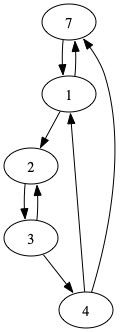
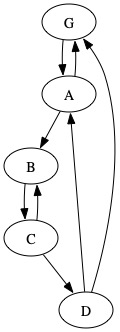
fix: Vertices as string not int

diff --git a/zestaw5/ZadanieB/graph.h b/zestaw5/ZadanieB/graph.h
@@ -12,22 +12,22 @@ class graph
 private:
     int **adjacencyMatrix;
     int numberOfVertices;
-    std::unordered_map<int, int> verticesValues;
+    std::unordered_map<std::string, int> verticesValues;
     int numberOfEdges;
 
 public:
     graph(int vertices);
-    ~graph() = default;
-    bool adjacent(int vertex1, int vertex2);
-    std::vector<int> neighbors(int vertex);
-    void addVertex(int vertex);
-    void removeVertex(int vertex);
-    void addEdge(int vertex1, int vertex2);
-    void removeEdge(int vertex1, int vertex2);
-    int getVertexValue(int vertex);
-    void setVertexValue(int vertex, int value);
-    int getEdgeValue(int vertex1, int vertex2);
-    void setEdgeValue(int vertex1, int vertex2, int value);
+    ~graph(); // Changed to custom destructor
+    bool adjacent(const std::string &vertex1, const std::string &vertex2);
+    std::vector<std::string> neighbors(const std::string &vertex);
+    void addVertex(const std::string &vertex);
+    void removeVertex(const std::string &vertex);
+    void addEdge(const std::string &vertex1, const std::string &vertex2);
+    void removeEdge(const std::string &vertex1, const std::string &vertex2);
+    int getVertexValue(const std::string &vertex);
+    void setVertexValue(const std::string &vertex, int value);
+    int getEdgeValue(const std::string &vertex1, const std::string &vertex2);
+    void setEdgeValue(const std::string &vertex1, const std::string &vertex2, int value);
     void display();
     void generateDotFile(const std::string &filename);
 };
@@ -47,43 +47,46 @@ graph::graph(int vertices)
         {
             adjacencyMatrix[i][j] = 0;
         }
-        verticesValues.insert({i, i});
+
+        // Generate a letter A, B, C, etc. for initial vertices
+        char letter = 'A' + i;
+        std::string vertexName(1, letter);
+        verticesValues.insert({vertexName, i});
     }
 }
 
-bool graph::adjacent(int vertex1, int vertex2)
+bool graph::adjacent(const std::string &vertex1, const std::string &vertex2)
 {
-    if (vertex1 >= 0 && vertex2 >= 0)
+    if (verticesValues.contains(vertex1) && verticesValues.contains(vertex2))
     {
         return adjacencyMatrix[verticesValues.at(vertex1)][verticesValues.at(vertex2)] != 0;
     }
     return false;
 }
 
-std::vector<int> graph::neighbors(int vertex)
+std::vector<std::string> graph::neighbors(const std::string &vertex)
 {
-    if (vertex < 0 || !verticesValues.contains(vertex))
+    if (!verticesValues.contains(vertex))
     {
         std::cout << "Vertex does not exist." << std::endl;
         return {};
     }
 
     int index = verticesValues.at(vertex);
-    std::vector<int> neighbors;
+    std::vector<std::string> neighbors;
 
     for (int i = 0; i < numberOfVertices; i++)
     {
         if (adjacencyMatrix[index][i] != 0)
         {
-            std::unordered_map<int, int>::iterator it = verticesValues.begin();
-            while (it != verticesValues.end())
+            // Find which vertex name corresponds to matrix index i
+            for (const auto &[vtxName, idx] : verticesValues)
             {
-                if (it->second == i)
+                if (idx == i)
                 {
-                    neighbors.push_back(it->first);
+                    neighbors.push_back(vtxName);
                     break;
                 }
-                it++;
             }
         }
     }
@@ -97,7 +100,7 @@ std::vector<int> graph::neighbors(int vertex)
     return neighbors;
 }
 
-void graph::addVertex(int vertex)
+void graph::addVertex(const std::string &vertex)
 {
     if (verticesValues.contains(vertex))
     {
@@ -136,7 +139,7 @@ void graph::addVertex(int vertex)
     verticesValues.insert({vertex, newSize - 1});
 }
 
-void graph::removeVertex(int vertex)
+void graph::removeVertex(const std::string &vertex)
 {
     if (!verticesValues.contains(vertex))
     {
@@ -172,41 +175,66 @@ void graph::removeVertex(int vertex)
             }
         }
     }
+
+    // Free old matrix memory
+    for (int i = 0; i < numberOfVertices; i++)
+    {
+        delete[] adjacencyMatrix[i];
+    }
+    delete[] adjacencyMatrix;
+
     adjacencyMatrix = newAdjecencyMatrix;
     numberOfVertices = newSize;
     verticesValues.erase(vertex);
+
+    // Update indices of remaining vertices
+    for (auto &[vtx, idx] : verticesValues)
+    {
+        if (idx > index)
+        {
+            idx--;
+        }
+    }
 }
 
-void graph::addEdge(int vertex1, int vertex2)
+void graph::addEdge(const std::string &vertex1, const std::string &vertex2)
 {
-    if (vertex1 >= 0 && vertex2 >= 0)
+    if (verticesValues.contains(vertex1) && verticesValues.contains(vertex2))
     {
         adjacencyMatrix[verticesValues.at(vertex1)][verticesValues.at(vertex2)] = 1;
         numberOfEdges++;
     }
+    else
+    {
+        std::cout << "One or both vertices do not exist." << std::endl;
+    }
 }
 
-void graph::removeEdge(int vertex1, int vertex2)
+void graph::removeEdge(const std::string &vertex1, const std::string &vertex2)
 {
-    if (vertex1 >= 0 && vertex2 >= 0 && vertex1 < numberOfVertices && vertex2 < numberOfVertices)
+    if (verticesValues.contains(vertex1) && verticesValues.contains(vertex2))
     {
         adjacencyMatrix[verticesValues.at(vertex1)][verticesValues.at(vertex2)] = 0;
         numberOfEdges--;
     }
+    else
+    {
+        std::cout << "One or both vertices do not exist." << std::endl;
+    }
 }
 
-int graph::getVertexValue(int vertex)
+int graph::getVertexValue(const std::string &vertex)
 {
-    if (vertex >= 0 && verticesValues.contains(vertex))
+    if (verticesValues.contains(vertex))
     {
         return verticesValues.at(vertex);
     }
     return -1; // Invalid vertex
 }
 
-void graph::setVertexValue(int vertex, int value)
+void graph::setVertexValue(const std::string &vertex, int value)
 {
-    if (vertex >= 0 && verticesValues.contains(vertex))
+    if (verticesValues.contains(vertex))
     {
         verticesValues[vertex] = value;
     }
@@ -216,18 +244,18 @@ void graph::setVertexValue(int vertex, int value)
     }
 }
 
-int graph::getEdgeValue(int vertex1, int vertex2)
+int graph::getEdgeValue(const std::string &vertex1, const std::string &vertex2)
 {
-    if (vertex1 >= 0 && vertex2 >= 0)
+    if (verticesValues.contains(vertex1) && verticesValues.contains(vertex2))
     {
         return adjacencyMatrix[verticesValues.at(vertex1)][verticesValues.at(vertex2)];
     }
     return -1; // Invalid edge
 }
 
-void graph::setEdgeValue(int vertex1, int vertex2, int value)
+void graph::setEdgeValue(const std::string &vertex1, const std::string &vertex2, int value)
 {
-    if (vertex1 >= 0 && vertex2 >= 0 && vertex1 < numberOfVertices && vertex2 < numberOfVertices)
+    if (verticesValues.contains(vertex1) && verticesValues.contains(vertex2))
     {
         adjacencyMatrix[verticesValues.at(vertex1)][verticesValues.at(vertex2)] = value;
     }
@@ -258,22 +286,29 @@ void graph::generateDotFile(const std::string &filename)
 
     dotFile << "digraph G {" << std::endl;
 
-    std::unordered_map<int, int>::iterator it = verticesValues.begin();
-    while (it != verticesValues.end())
+    for (const auto &[vertex, index] : verticesValues)
     {
-        int vertex = it->first;
-        std::vector<int> neighborsList = neighbors(vertex);
+        std::vector<std::string> neighborsList = neighbors(vertex);
 
-        for (int neighbor : neighborsList)
+        for (const std::string &neighbor : neighborsList)
         {
-            dotFile << "    " << vertex << " -> " << neighbor << ";" << std::endl;
+            // Quote the vertex names to handle special characters
+            dotFile << "    \"" << vertex << "\" -> \"" << neighbor << "\";" << std::endl;
         }
-
-        it++;
     }
+
     dotFile << "}" << std::endl;
     dotFile.close();
     std::cout << "DOT file generated: " << filename << std::endl;
+}
+
+graph::~graph()
+{
+    for (int i = 0; i < numberOfVertices; i++)
+    {
+        delete[] adjacencyMatrix[i];
+    }
+    delete[] adjacencyMatrix;
 }
 
 #endif // graph_h

diff --git a/zestaw5/ZadanieB/main.cpp b/zestaw5/ZadanieB/main.cpp
@@ -4,22 +4,22 @@
 
 int main()
 {
-    graph g(5);
-    g.addVertex(7);
+    graph g(5); // Creates a graph with vertices A, B, C, D, E
+    g.addVertex("F");
+    g.addVertex("G");
 
-    g.addEdge(1, 2);
-    g.addEdge(2, 3);
-    g.addEdge(3, 2);
-    g.addEdge(3, 4);
-    g.addEdge(4, 7);
-    g.addEdge(4, 1);
-    g.addEdge(1, 7);
-    g.addEdge(7, 1);
+    g.addEdge("A", "B");
+    g.addEdge("B", "C");
+    g.addEdge("C", "B");
+    g.addEdge("C", "D");
+    g.addEdge("D", "G");
+    g.addEdge("D", "A");
+    g.addEdge("A", "G");
+    g.addEdge("G", "A");
 
     std::cout << "Graph adjacency matrix:" << std::endl;
     g.display();
 
-    g.neighbors(7);
     g.generateDotFile("graph.txt");
 
     return 0;
